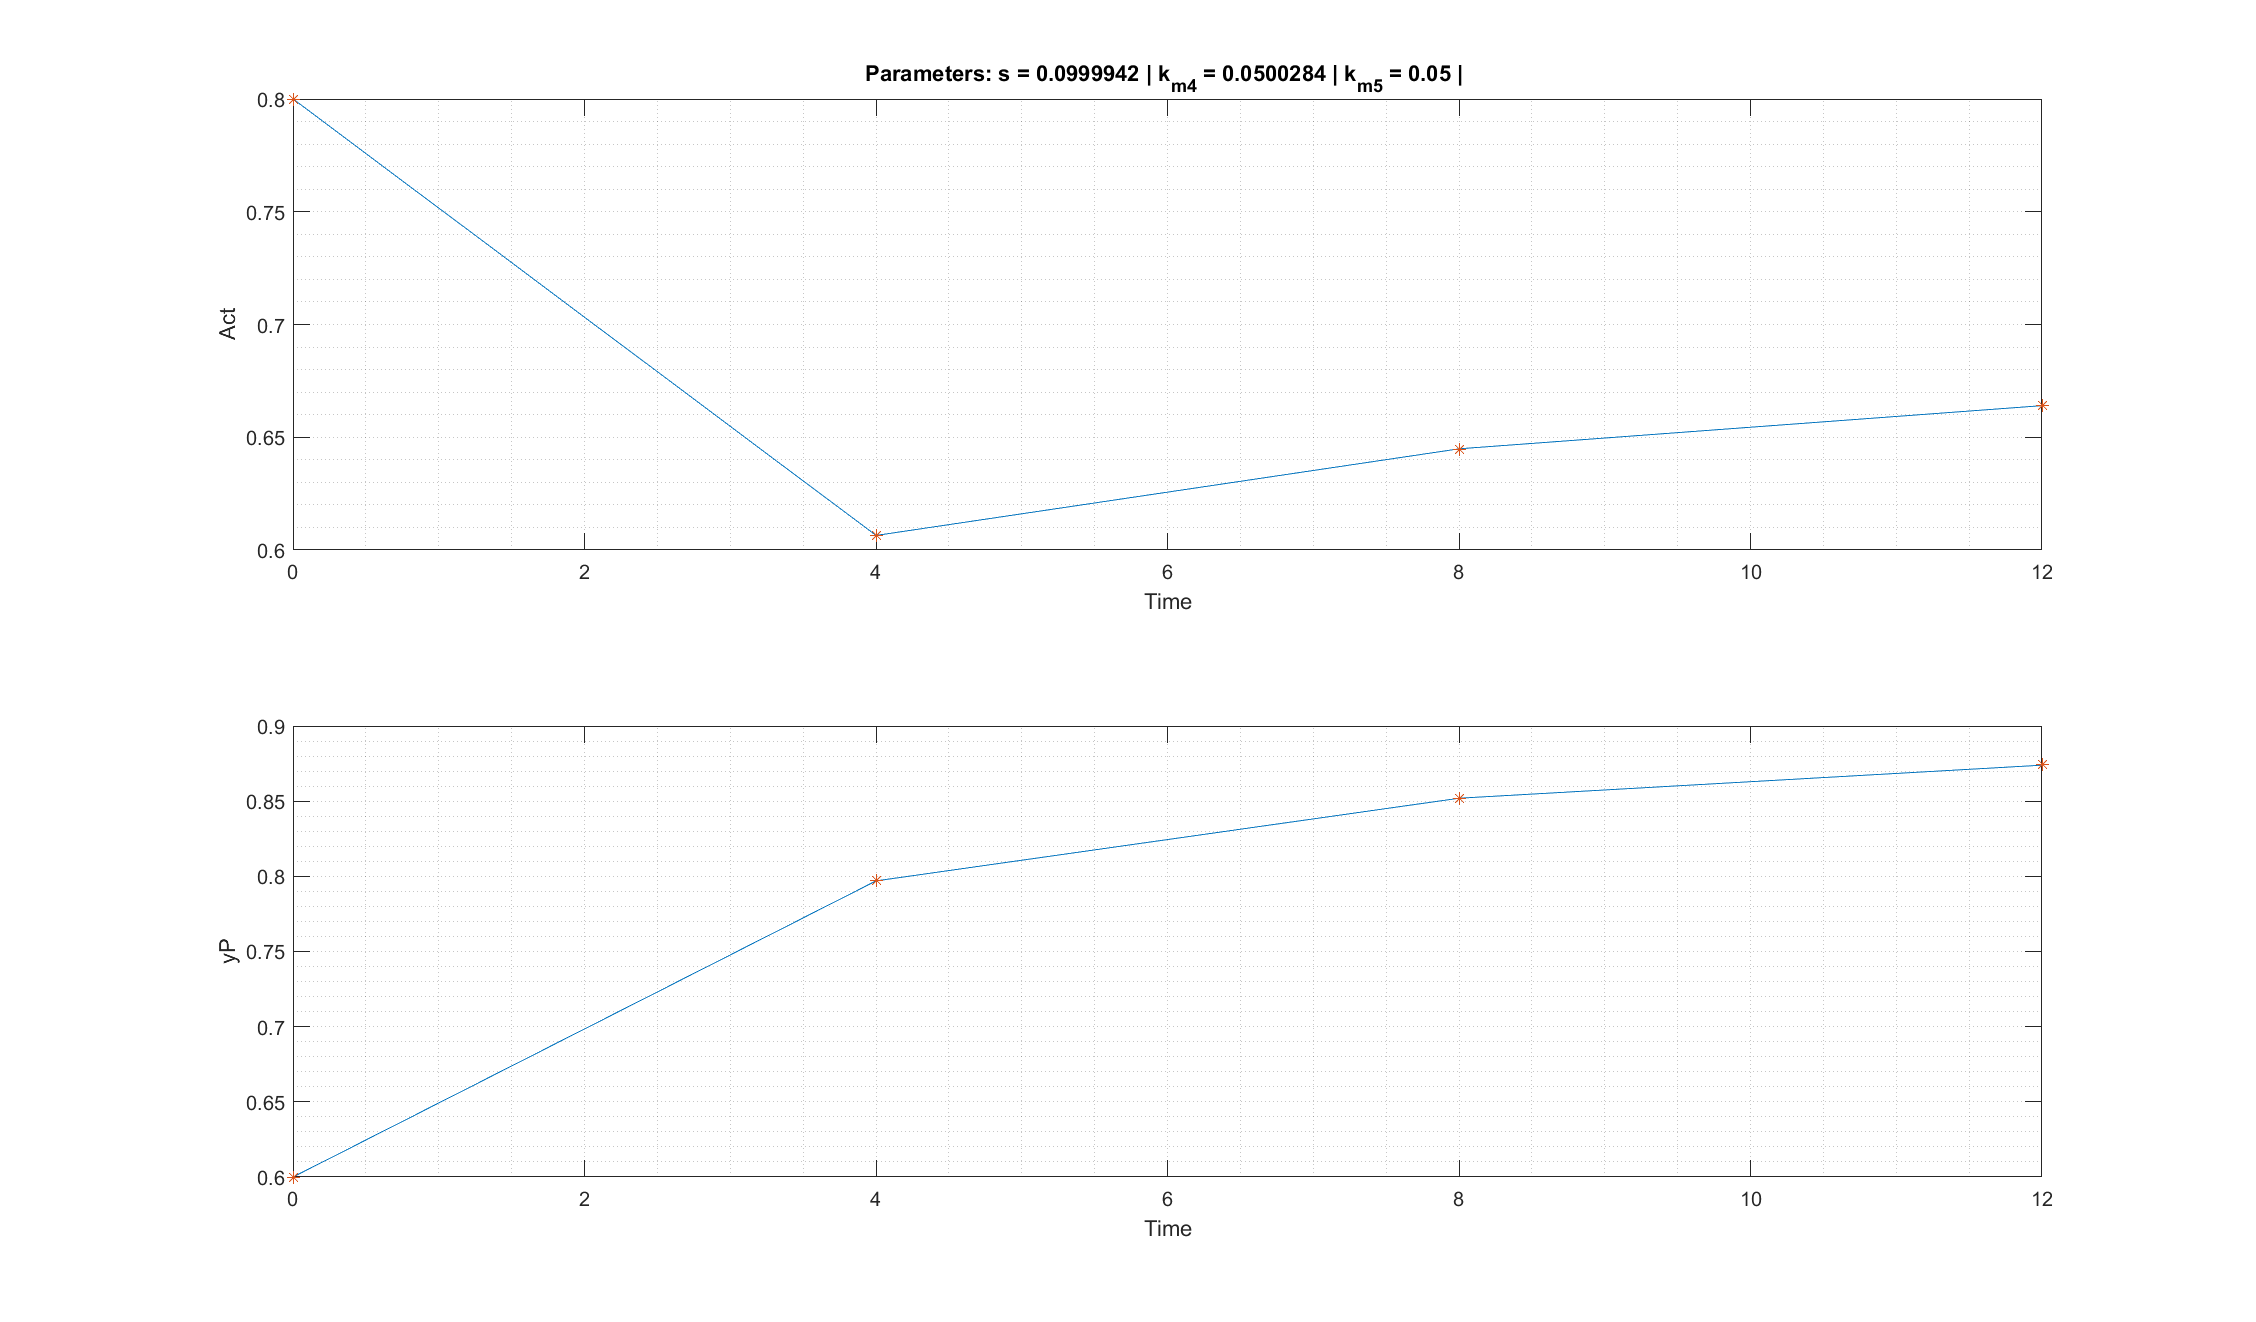
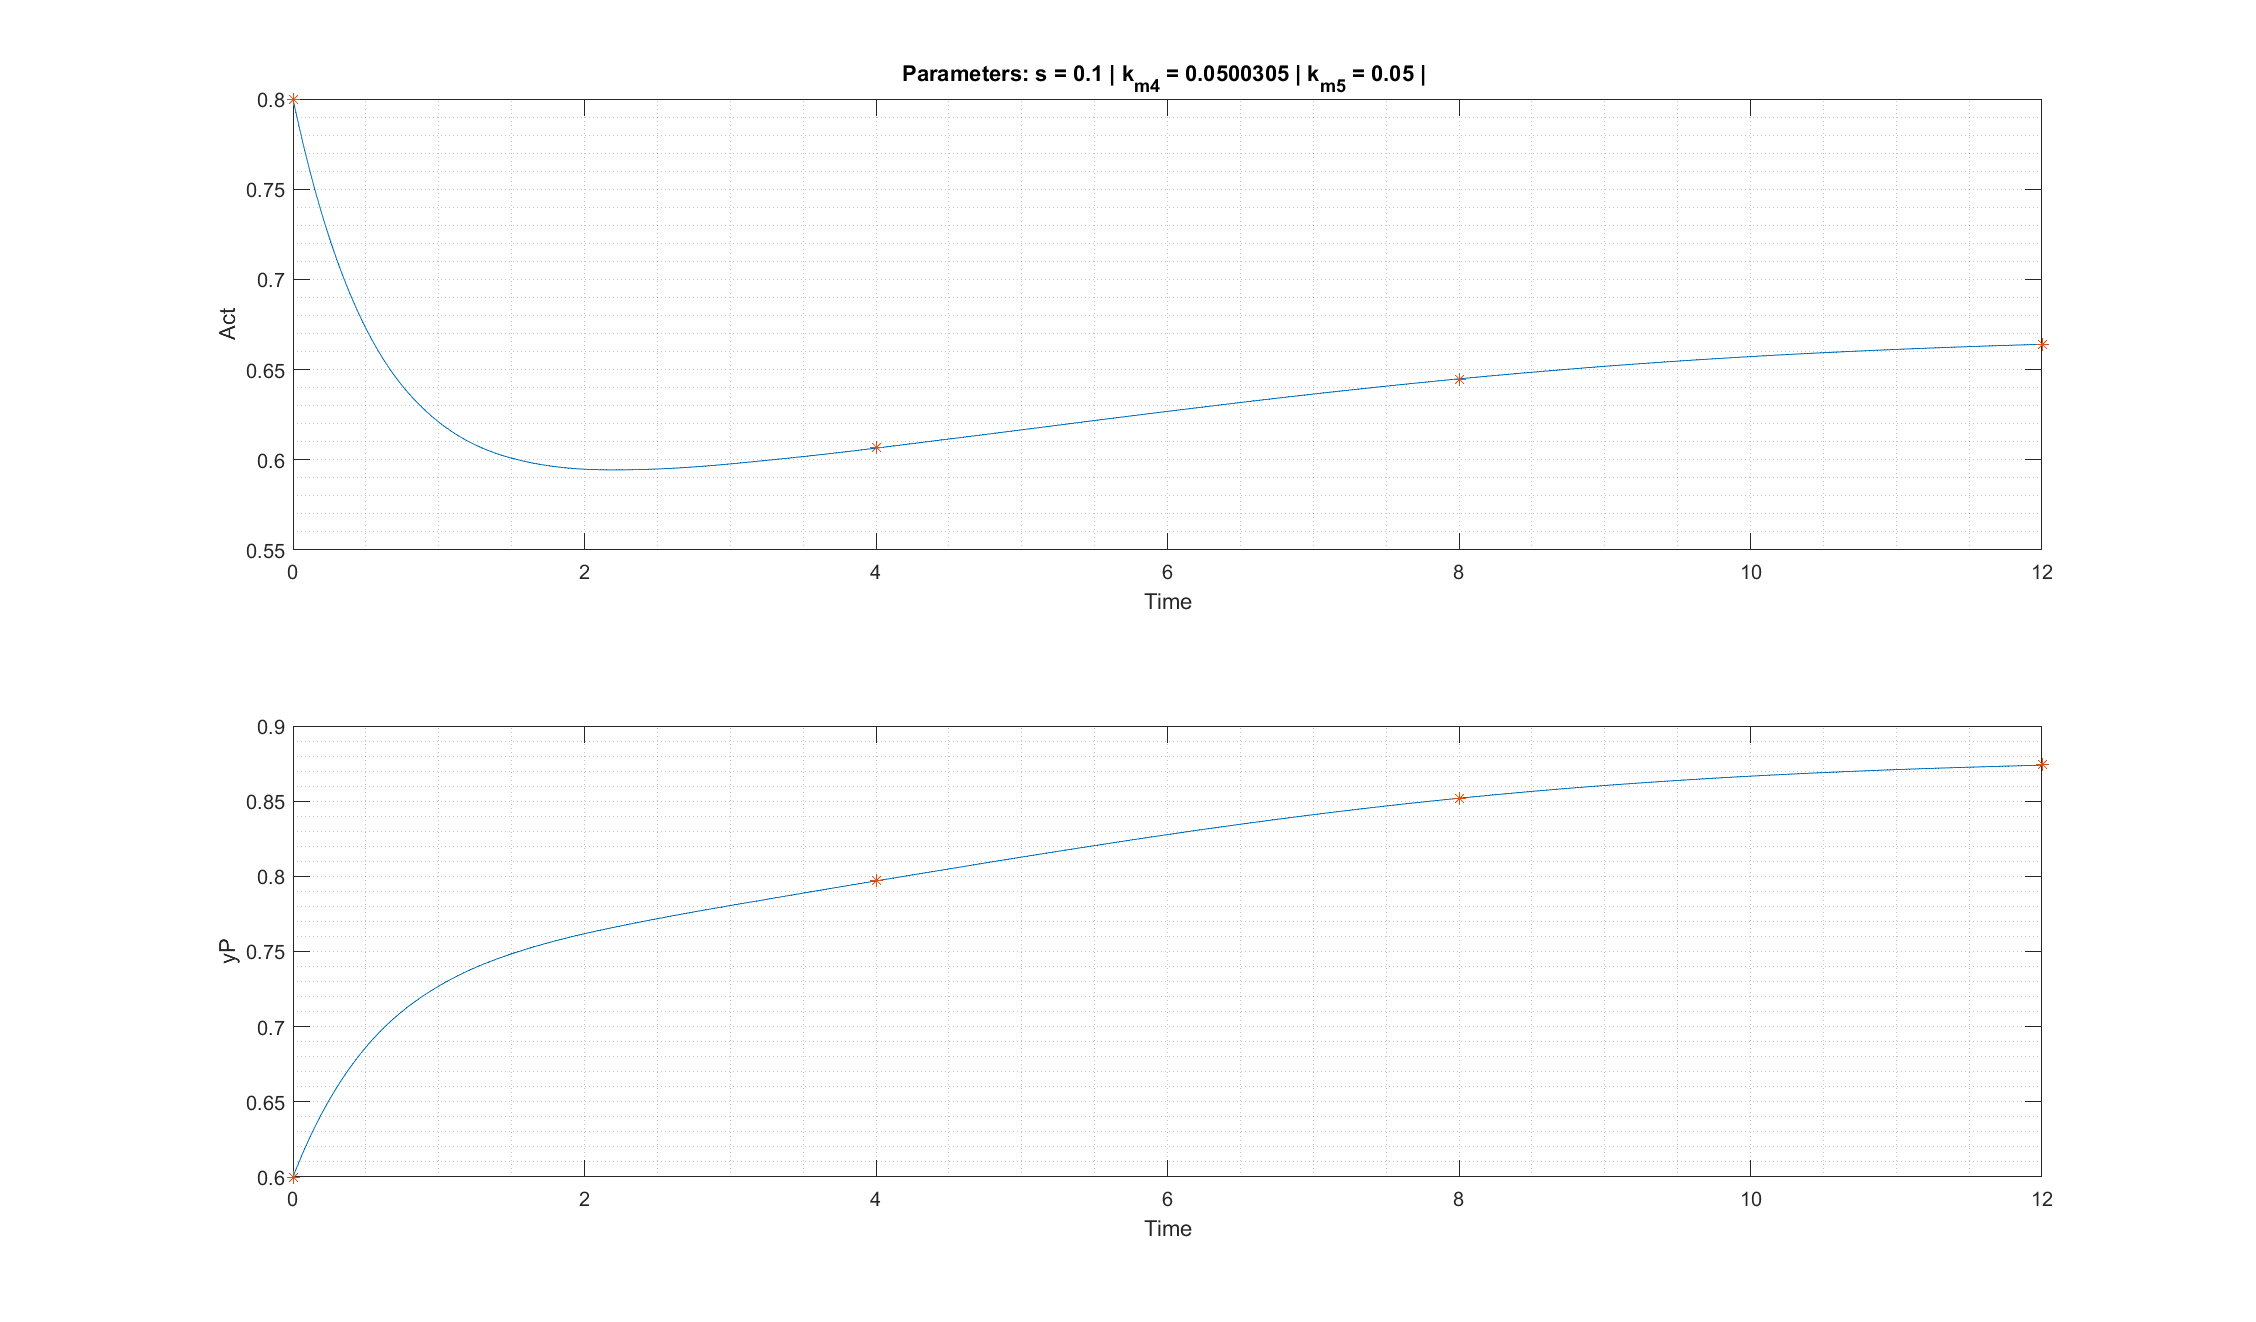
new nice swag results

Changed region(s): [[0.3723, 0.031, 0.6516, 0.093]]

diff --git a/three_parameter_estimation.m b/three_parameter_estimation.m
@@ -9,8 +9,8 @@ opts = optimset('TolFun', 1e-12, 'TolX', 1e-12, 'MaxIter', 150, 'Diagnostics', '
 initParams=[0.8;0.05;0.05];
 
 % 3 parameters estimated s, km4, km5
-loBound = [0.1 0.05 0.05]; 
-upBound = [0.8 0.1 0.1];
+loBound = [0.1 0.2 0.05]; 
+upBound = [0.8 0.5 0.1];
 
 lsqnonlin(@residual,  log10 (initParams), log10 (loBound), log10 (upBound), opts);
 
@@ -28,6 +28,7 @@ for i = 1:length(T)
     end
 end
 R = residual(:);
+SSE = sum(R(:).^2);
 results=a;
    
 subplot(2,1,1);

diff --git a/single_parameter_estimation.m b/single_parameter_estimation.m
@@ -28,12 +28,7 @@ for i = 1:length(T)
     end
 end
 R = residual(:);
-% size(R)
-% SSE_Act = R(1:4).*R(1:4);
-% SSE_ACT = sum(SSE_Act(:))
-% 
-% SSE_yp = R(5:8).*R(5:8);
-% SSE_yp = sum(SSE_Act(:))
+SSE = sum(R(:).^2);
 results=a;
    
 subplot(2,1,1);

diff --git a/seven_parameter_estimation.m b/seven_parameter_estimation.m
@@ -41,6 +41,7 @@ for i = 1:length(T)
     end
 end
 R = residual(:);
+SSE = sum(R(:).^2);
 results=a;
 
 subplot(2,1,1);
